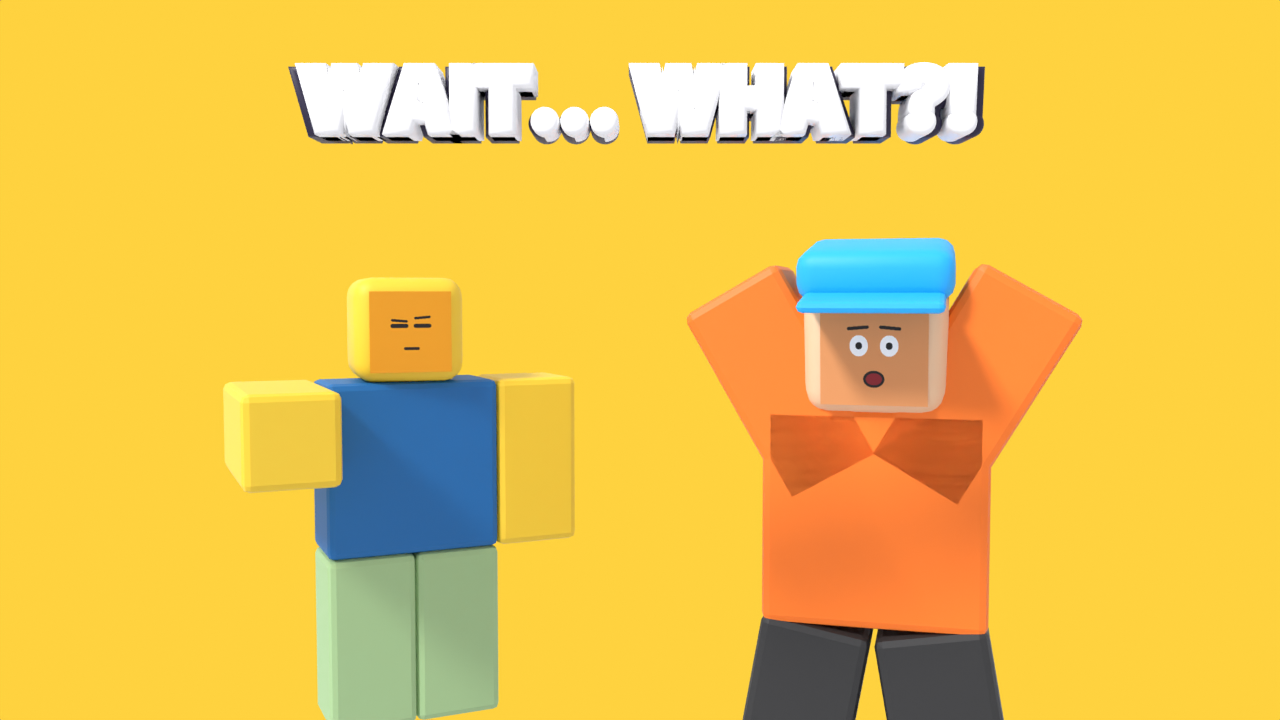
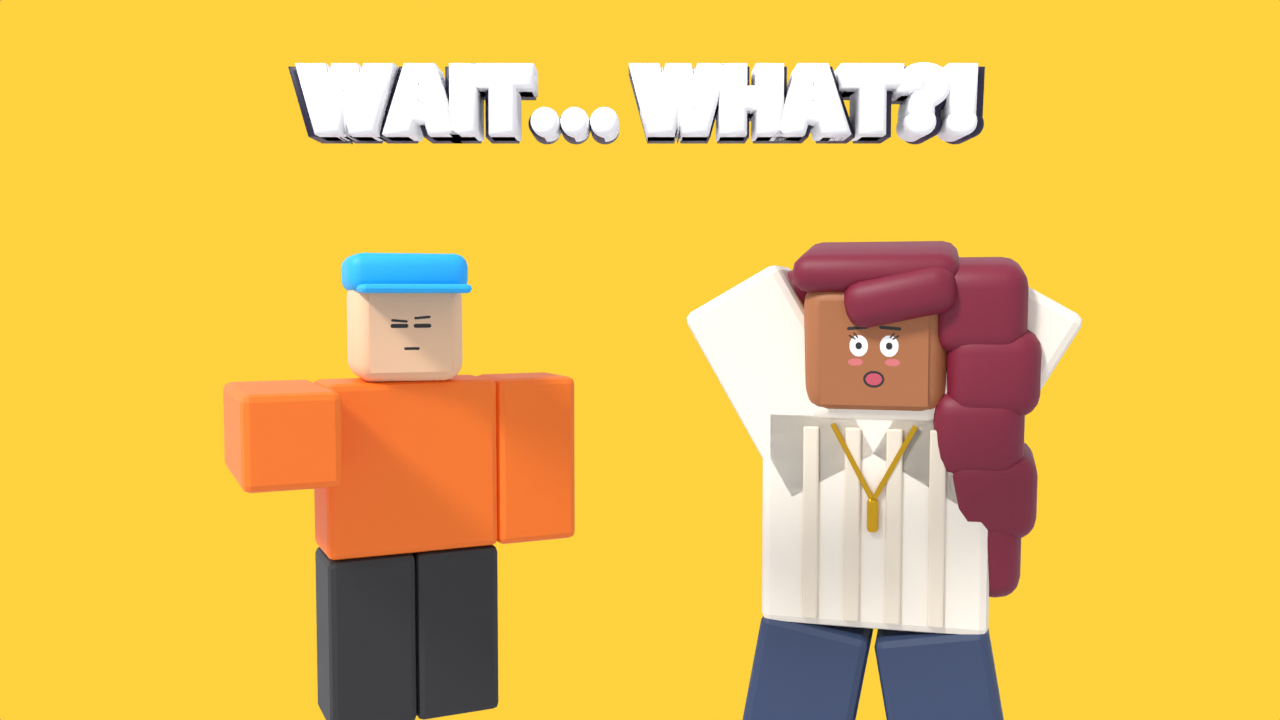
Add Sage as main character: custom face style, side-swept hair, knit turtleneck, gold jewelry
Also fixes face-texture colour space (faces were darker than heads) and
re-renders logo, banner, thumbnail and cast lineup with Sage.

Claude-Session: https://claude.ai/code/session_01J3XbAiCneoB6BvaKg4KW12

Changed region(s): [[0.5312, 0.3056, 0.8438, 1.0], [0.1562, 0.3361, 0.4688, 1.0], [0.625, 0.1833, 0.75, 0.2139]]

diff --git a/pipeline/blender/rig.py b/pipeline/blender/rig.py
@@ -8,6 +8,7 @@ one cell of a face "atlas" image; changing expression = moving the UV window.
 If you drop a PNG at assets/faces/<expression>.png (transparent background,
 square), it is used instead of the generated face for every character.
 """
+import math
 import os
 
 import bpy
@@ -35,6 +36,12 @@ def make_material(name, color, roughness=0.55):
     bsdf.inputs["Base Color"].default_value = rgba
     bsdf.inputs["Roughness"].default_value = roughness
     mat.diffuse_color = rgba  # used by the Workbench engine
+    return mat
+
+
+def metal_material(name, color):
+    mat = make_material(name, color, roughness=0.25)
+    mat.node_tree.nodes.get("Principled BSDF").inputs["Metallic"].default_value = 1.0
     return mat
 
 
@@ -181,7 +188,41 @@ def draw_face(expr, mouth_open):
     return ink, white, pink, blue, red
 
 
-def build_face_atlas(name, skin_hex, faces_dir, glasses=False):
+def stylize_face(expr, mouth_open, layers, style):
+    """Personal face details layered on top of an expression.
+    style keys: lashes, teeth, brows ("arched"), blush, sparkle, lips ("#hex")."""
+    ink, white, pink, blue, red = layers
+    extra = {"blush": np.zeros_like(ink), "lips": np.zeros_like(ink)}
+    L, R, EY = 92, 164, 108
+    yy, xx = _yy_xx()
+    if style.get("teeth") and expr in ("happy", "love"):
+        # replace the line smile with a big open smile showing teeth
+        ink[yy > 140] = False
+        pink[yy > 140] = False
+        ry = 44 if mouth_open else 34
+        mouth = _ellipse(128, 156, 44, ry) & (yy >= 156)
+        lips = _ellipse(128, 156, 51, ry + 7) & (yy >= 150) & ~mouth
+        teeth = mouth & (yy <= 156 + ry * 0.45)
+        pink |= mouth & ~teeth
+        white |= teeth
+        extra["lips"] |= lips
+    if style.get("brows") == "arched" and expr in ("neutral", "happy", "love", "cry"):
+        for cx in (L, R):
+            ink |= _arc(cx, EY + 10, 36, 7, up=False, span=0.55) & (yy < EY - 18)
+    if style.get("lashes") and expr not in ("dead", "sus", "smug"):
+        for cx, d in ((L, -1), (R, 1)):
+            for (ax, ay, bx, by) in ((9, -17, 22, -25), (3, -21, 11, -31)):
+                ink |= _segment(cx + d * ax, EY + ay, cx + d * bx, EY + by, 4)
+    if style.get("sparkle") and expr not in ("dead", "sus", "evil", "love", "cry"):
+        for cx in (L, R):
+            white |= _ellipse(cx + 4, EY - 9, 4.5, 4.5) & ink
+    if style.get("blush"):
+        for cx in (L - 8, R + 8):
+            extra["blush"] |= _ellipse(cx, EY + 40, 18, 9) & ~ink
+    return (ink, white, pink, blue, red), extra
+
+
+def build_face_atlas(name, skin_hex, faces_dir, glasses=False, style=None):
     W, H = ATLAS_COLS * CELL, ATLAS_ROWS * CELL
     px = np.zeros((H, W, 4), np.float32)
     skin = np.array(hex_rgba(skin_hex), np.float32)
@@ -201,14 +242,23 @@ def build_face_atlas(name, skin_hex, faces_dir, glasses=False):
                 img = bpy.data.images.load(custom)
                 img.scale(CELL, CELL)
                 c = np.array(img.pixels[:], np.float32).reshape(CELL, CELL, 4)[::-1]
+                rgb = c[..., :3]
+                c[..., :3] = np.where(rgb <= 0.04045, rgb / 12.92, ((rgb + 0.055) / 1.055) ** 2.4)
                 a = c[..., 3:4]
                 cell = cell * (1 - a) + np.concatenate([c[..., :3], np.ones_like(a)], -1) * a
                 bpy.data.images.remove(img)
             else:
                 layers = draw_face(expr, bool(open_))
+                extra = {}
+                if style:
+                    layers, extra = stylize_face(expr, bool(open_), layers, style)
                 ink, white, pink, blue, red = layers
+                if "blush" in extra:
+                    cell[extra["blush"]] = cell[extra["blush"]] * 0.55 + np.array(hex_rgba("#ff7f9a")) * 0.45
                 for mask, key in ((white, "white"), (pink, "pink"), (blue, "blue"), (red, "red"), (ink, "ink")):
                     cell[mask] = colors[key]
+                if "lips" in extra:
+                    cell[extra["lips"]] = hex_rgba(style.get("lips", "#c75b6e"))
             if glasses:
                 rim = np.zeros((CELL, CELL), bool)
                 for cx in (92, 164):
@@ -217,7 +267,8 @@ def build_face_atlas(name, skin_hex, faces_dir, glasses=False):
                 cell[rim[::1]] = colors["ink"]
             # Blender images are stored bottom row first -> flip, and atlas row 0 is at the bottom
             px[row * CELL:(row + 1) * CELL, col * CELL:(col + 1) * CELL] = cell[::-1]
-    img = bpy.data.images.new(f"{name}_faces", W, H, alpha=True)
+    img = bpy.data.images.new(f"{name}_faces", W, H, alpha=True, float_buffer=True)
+    img.colorspace_settings.name = "Non-Color"  # pixels below are already linear
     img.pixels.foreach_set(px.ravel())
     img.pack()
     return img
@@ -270,7 +321,8 @@ def build_character(name, spec, faces_dir):
     face.parent = head
     face.location = (0, -0.605, 0.58)
 
-    atlas = build_face_atlas(name, spec.get("skin", "#f5cd30"), faces_dir, bool(spec.get("glasses")))
+    atlas = build_face_atlas(name, spec.get("skin", "#f5cd30"), faces_dir, bool(spec.get("glasses")),
+                             spec.get("face_style"))
     fm = bpy.data.materials.new(f"{name}_face_mat")
     fm.use_nodes = True
     nt = fm.node_tree
@@ -301,8 +353,43 @@ def build_character(name, spec, faces_dir):
         elif style == "long":
             add_obj(f"{name}_hairtop", box_mesh("ht", (1.4, 1.35, 0.4)), head, (0, 0.05, 1.28), hm, bevel=0.15)
             add_obj(f"{name}_hairback", box_mesh("hk", (1.4, 0.35, 1.7)), head, (0, 0.6, 0.55), hm, bevel=0.12)
+        elif style == "sideswept":
+            # long wavy hair, deep side part, swept over the character's left shoulder (+X)
+            add_obj(f"{name}_hairtop", box_mesh("ht", (1.42, 1.36, 0.34)), head, (0, 0.04, 1.27), hm,
+                    bevel=0.15, segments=3)
+            add_obj(f"{name}_swoop", box_mesh("hs", (0.95, 0.32, 0.42)), head, (0.22, -0.6, 1.08), hm,
+                    bevel=0.16, segments=3).rotation_euler = (0, math.radians(-12), 0)
+            add_obj(f"{name}_hairback", box_mesh("hk", (1.5, 0.42, 2.4)), head, (0, 0.62, 0.05), hm,
+                    bevel=0.18, segments=3)
+            for i in range(5):  # big wavy curtain over the shoulder down to the chest
+                z = 0.95 - i * 0.55
+                x = 0.88 + (0.12 if i % 2 else 0.0)
+                add_obj(f"{name}_wave{i}", box_mesh("hw", (0.78, 0.9, 0.78)), head, (x, -0.18, z),
+                        hm, bevel=0.2, segments=4)
+            for i in range(3):  # shorter side tucked behind the other ear
+                add_obj(f"{name}_side{i}", box_mesh("hd", (0.42, 0.6, 0.55)), head,
+                        (-0.75 + (0.06 if i % 2 else 0), 0.15, 0.95 - i * 0.45), hm, bevel=0.2, segments=3)
         else:  # block
             add_obj(f"{name}_hairtop", box_mesh("ht", (1.35, 1.3, 0.4)), head, (0, 0.05, 1.28), hm, bevel=0.15)
+
+    if spec.get("turtleneck"):
+        add_obj(f"{name}_collar", box_mesh("tn", (1.2, 1.08, 0.34)), torso, (0, 0, 2.02), shirt,
+                bevel=0.14, segments=3)
+    if spec.get("knit"):
+        rib = make_material(f"{name}_rib", spec["knit"])
+        for x in (-0.55, -0.18, 0.18, 0.55):
+            add_obj(f"{name}_rib{x}", box_mesh("rb", (0.14, 0.04, 1.75)), torso, (x, -0.515, 0.95), rib, bevel=0.03)
+    if spec.get("necklace"):
+        gold = metal_material(f"{name}_gold", spec["necklace"])
+        for side in (-1, 1):
+            add_obj(f"{name}_chain{side}", box_mesh("ch", (0.045, 0.03, 0.76)), torso,
+                    (side * 0.18, -0.53, 1.52), gold, bevel=0).rotation_euler = (0, math.radians(side * 28), 0)
+        add_obj(f"{name}_pendant", box_mesh("pd", (0.1, 0.06, 0.3)), torso, (0, -0.54, 1.05), gold, bevel=0.03)
+    if spec.get("earrings"):
+        gold = metal_material(f"{name}_ear_gold", spec["earrings"])
+        for x in (-0.66, 0.66):
+            add_obj(f"{name}_earring{x}", box_mesh("er", (0.13, 0.13, 0.13)), head, (x, -0.05, 0.4), gold,
+                    bevel=0.06, segments=3)
 
     parts = {"torso": torso, "head": head, "arm_l": arm_l, "arm_r": arm_r, "leg_l": leg_l, "leg_r": leg_r}
     for ob in parts.values():

diff --git a/pipeline/blender/render_branding.py b/pipeline/blender/render_branding.py
@@ -27,7 +27,7 @@ def parse():
     argv = sys.argv[sys.argv.index("--") + 1:] if "--" in sys.argv else sys.argv[1:]
     p = argparse.ArgumentParser()
     p.add_argument("--name", default="BLOCKTOPIA TALES")
-    p.add_argument("--mascot", default="ziggy")
+    p.add_argument("--mascot", default="sage")
     p.add_argument("--color", default="#6c3ce0", help="brand background colour")
     p.add_argument("--accent", default="#ffd23f", help="title text colour")
     p.add_argument("--out", default=os.path.join(ROOT, "branding"))
@@ -168,7 +168,7 @@ def logo(args, c):
     scn, cam = reset(args, 800, 800, args.color)
     character(args.mascot, c[args.mascot], (0, 0, 0), 14, "idle", "happy")
     cam.data.lens = 50
-    aim(cam, (0.9, -5.8, 5.0), (0.05, 0, 4.55))
+    aim(cam, (1.2, -6.4, 5.0), (0.35, 0, 4.45))
     path = os.path.join(args.out, "logo.png")
     render(scn, path)
     img = bpy.data.images.load(path)
@@ -239,8 +239,8 @@ def lineup(args, c):
     for i, n in enumerate(names):
         x = x0 + i * gap
         character(n, c[n], (x, 0, 0), 0, "idle", faces[i % len(faces)])
-        text3d(f"name{i}", c[n].get("display", n).upper(), font, "#2b2b2b", 0.55, (x, -1.2, -0.75),
-               extrude=0.04, outline=False)
+        text3d(f"name{i}", c[n].get("display", n).upper(), font, "#2b2b2b", 0.5, (x, -1.2, -0.75),
+               extrude=0.0, outline=False, spacing=1.25)
     floor = rigmod.add_obj("floor", rigmod.box_mesh("floor", (80, 10, 0.2), (0, 0, 0.1)), None, (0, 2, 0),
                            rigmod.make_material("floor", "#e2d9c8"), bevel=0)
     cam.data.type = "ORTHO"
